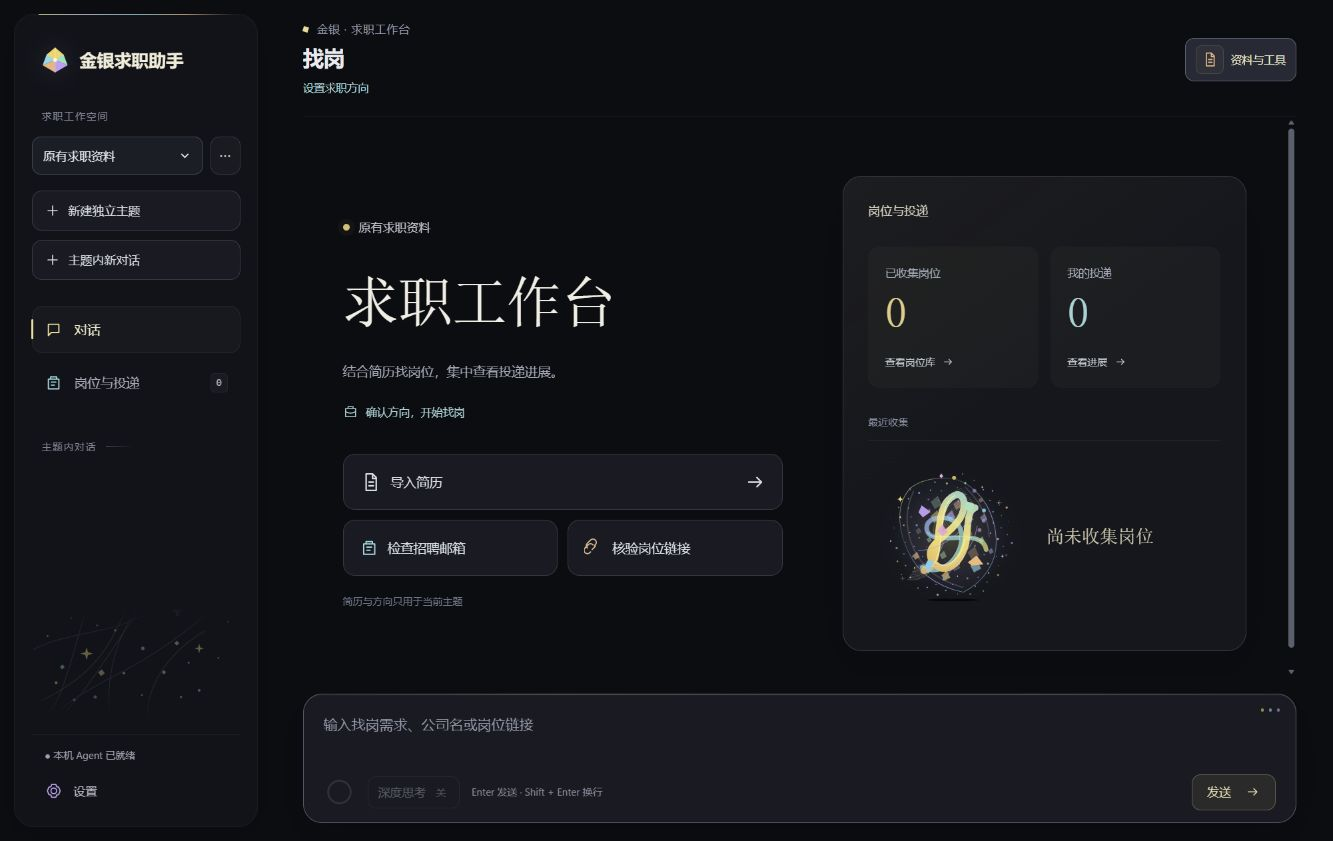
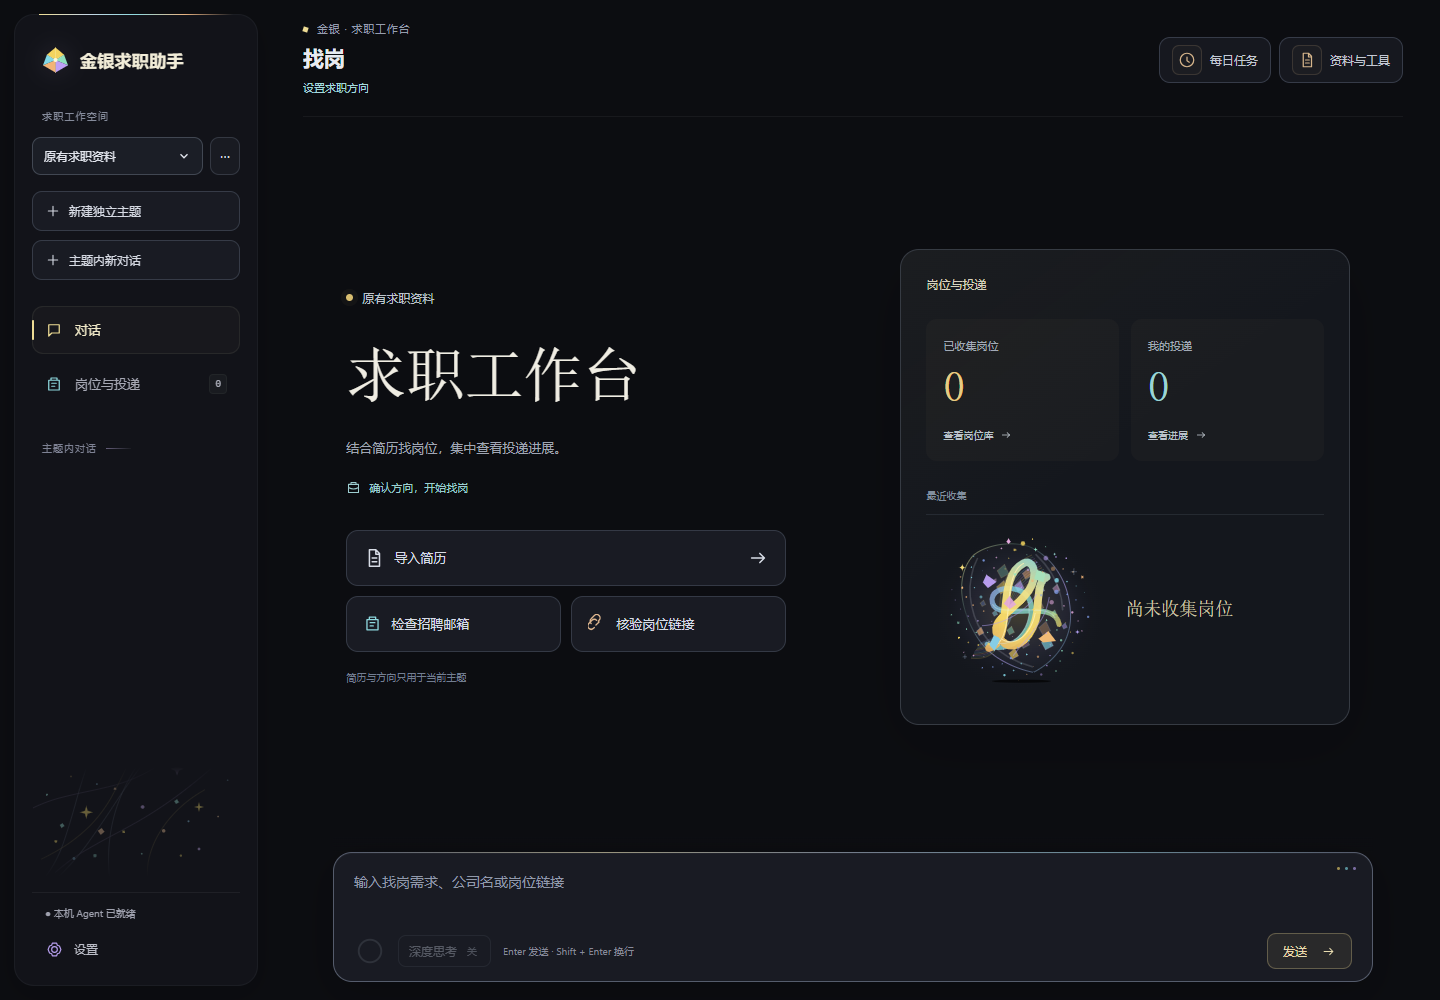
Release v0.3.2 with daily tasks, source order, fixed review and task timing

diff --git a/README.md b/README.md
@@ -12,7 +12,7 @@
 
 ## 如何体验
 
-1. 在 Releases 下载 `Jinyin-Windows-x64-v0.3.1.zip`，完整解压到一个文件夹。
+1. 在 Releases 下载 `Jinyin-Windows-x64-v0.3.2.zip`，完整解压到一个文件夹。
 2. 双击文件夹中的 **`Jinyin.exe`**，等待浏览器打开金银求职助手。
 3. 在「设置」中填写自己的 **DeepSeek API Key**。模型调用按 DeepSeek 的实际用量计费，程序不附赠 Key 或额度。
 4. 导入自己的简历、岗位或投递记录，也可以先直接提出问题。
@@ -28,16 +28,20 @@
 | 招聘邮件核对 | 授权后读取招聘邮件，结合已有岗位与投递记录核对测评、笔试、面试等进展 |
 | 连续对话与恢复 | 在独立求职主题内追问；保留阶段记录，支持停止后继续处理 |
 | 偏好与上下文管理 | 保存求职偏好和长期记忆，管理历史对话及上下文压缩 |
-| 过程与用量 | 展示实际工具调用进展，回答后显示 token 用量和费用估算 |
+| 每日任务 | 为任务选择每天固定时间或当天首次登录电脑后执行，结果追加到固定对话；当天错过时补跑一次 |
+| 网站连接 | 在设置中打开专用登录窗口，复用本机保存的状态；是否有效仍取决于网站 |
+| 过程与用量 | 展示实际工具调用进展，回答后显示累计 token、费用估算和任务总耗时 |
 
 ## 实现方式
 
 界面使用 HTML / CSS / JavaScript，本机服务使用 Python / FastAPI / SQLite。
 Agent 内核复用 **Deep Agents、LangChain、LangGraph**：模型决定如何理解请求、选择工具与组织回答；程序提供工具边界、执行状态、持久化、恢复和资料读写。
 
-主模型在工具循环中组织回答，复杂比较或通知冲突时可以按需调用 reviewer 核对关键结论，并继续查证、修正。普通回答不经过固定的多轮审批；reviewer 提供建议，不决定是否允许发布。模型与 reviewer 都可能判断错误。网页未加载、招聘源受限或证据不足时，应保留不确定性，不能把“没读到”当成“没有岗位”。
+主模型在工具循环中组织回答，每条答复固定执行一次独立复查；发现问题后，由主模型核对原文、按需使用工具修正并交付。reviewer 提供建议，没有第二轮复查或最终发布审批。程序核对原句和引文的字面匹配，不能代替事实与语义判断。模型与 reviewer 都可能判断错误。
 
-当前版本尚未提供每日任务和开机自动启动管理。
+指定公司找岗时，模型声明目标，程序检查先尝试官方招聘渠道，再按信息缺口补充其他来源；开放找岗可从内置来源发现岗位。网页未加载或目录未读全会返回具体限制，不能把“没读到”当成“没有岗位”。已完成的旧轮次保留问答正文，本轮执行继续保留必要工具回执；累计调用用量与当前上下文占用分别展示。
+
+Windows 登录启动默认开启，可在设置中关闭。关闭网页后后台仍可执行任务；电脑关机、休眠或没有可用模型连接时不执行，不会自动补跑前几天的任务。任务总耗时包含排队、执行、复查、暂停与等待恢复。
 
 ## 数据与使用范围
 

diff --git a/RELEASE-v0.3.2.md b/RELEASE-v0.3.2.md
@@ -1,0 +1,27 @@
+## 下载与启动
+
+完整解压 `Jinyin-Windows-x64-v0.3.2.zip`，双击 `Jinyin.exe`。无需安装 Python，建议已安装 Microsoft Edge；模型功能需要使用者自己的 DeepSeek API Key。
+
+升级前请结束旧版后台，再运行新版。个人资料继续保存在本机用户目录，无需删除资料或重复导入。
+
+## 本次更新
+
+- 增加每日任务及 Windows 登录启动管理：任务可选择固定时间或当天首次登录电脑后执行；结果追加到固定对话，当天错过时补跑一次，不补前几天。
+- 每条答复固定执行一次独立复查；主模型核对意见和原文后交付，无第二轮复查或最终发布审批。增加原句、来源引文字面匹配检查。
+- 指定公司找岗增加官网优先的来源顺序检查，并明确返回页面、分页、加载限制与实际读取回执。
+- 设置中增加招聘网站登录入口，复用本机登录状态；处理域名重复与登录后仍使用旧读取缓存的问题。
+- 清理旧轮次的工具与思考内容，保留问答正文；对完全相同的审阅原文和链接结构进行无损引用去重。
+- 页面断线时用中文说明并重新查询任务状态，写操作不自动重发。
+- 回答下方显示累计 token、估算费用及总耗时；总耗时包含排队、执行、复查、暂停和等待恢复，与任务详情一致。
+
+Windows 登录启动默认开启，后台不自动打开网页，可在设置中关闭。每日任务需要电脑处于运行、联网且模型连接可用的状态；不会唤醒已关机的电脑。
+
+## 验证与范围
+
+源码的140类控件隔离交互及布局检查、正式网页宽窄屏和断线恢复检查已通过；固定一次复查、来源顺序、网站连接、恢复及计时有合成回归。本次实际 EXE 的依赖与资源、空白资料目录启动、每日任务及网站连接入口、发布包内容检查也已通过；原有后台和登录启动设置已恢复，业务记录保持不变。
+
+未在另一台干净 Windows 电脑验收。网站可能更改登录或动态页面规则，不能保证永久登录或每个站点都能读取完整岗位。引文匹配不保证模型每次判断正确。本版不包含浏览器简历自动填写功能。
+
+发行包不包含作者的简历、邮箱、投递记录、API Key 或浏览器登录状态。GitHub 的 Source code 压缩包仅包含作品展示文件，Windows 用户请下载上面的命名 ZIP。
+
[1 lines of base64/hex data omitted]
